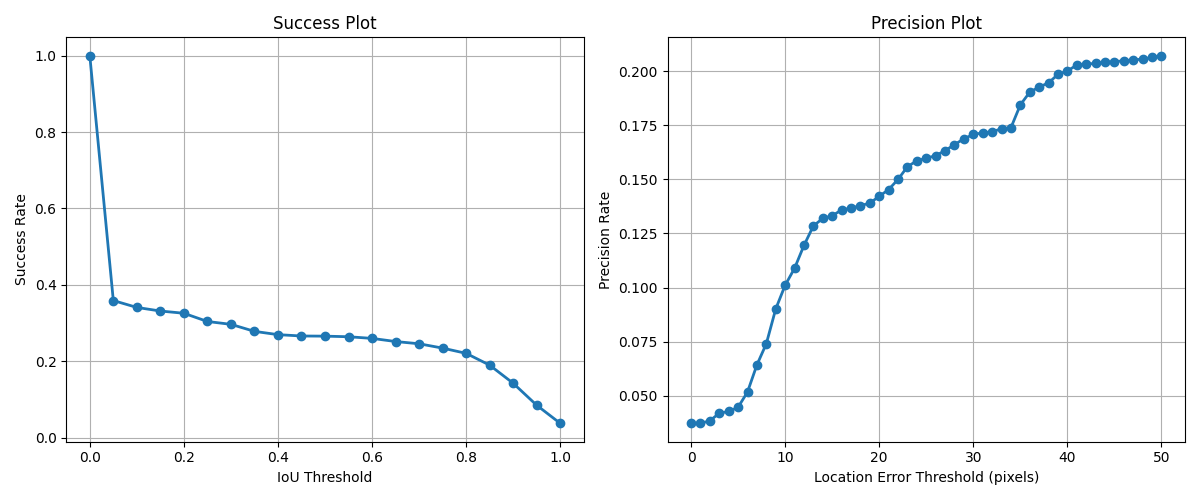
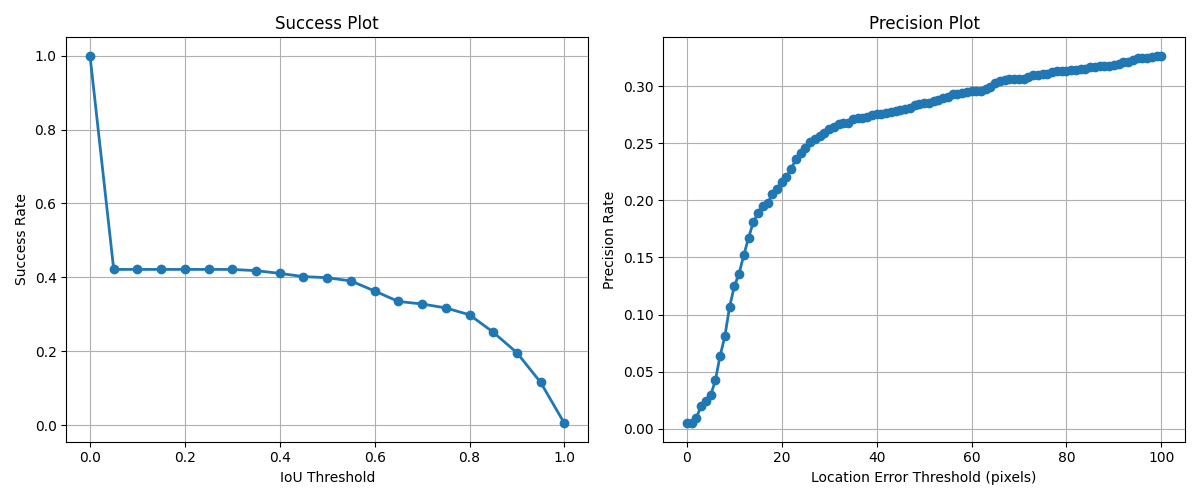
Refactor bounding box extraction to ignore 'person' class and update evaluation metrics for precision tolerance

diff --git a/evaluation/view_gt.py b/evaluation/view_gt.py
@@ -1,0 +1,138 @@
+import os
+import cv2
+import glob
+
+# ==========================================
+# 1. CONFIGURAZIONE PERCORSI
+# ==========================================
+# Cartella dei video raw originali (assicurati dell'estensione, qui cerchiamo .mp4)
+VIDEO_DIR = "/home/ludovico/workspace/AA-STAL/data_pipeline/DATA_ROOT/Videos"
+
+# Cartella con le cartelle dei robot (robot-1, robot-2, ecc.) e i txt
+GT_DIR = "/mnt/c/Users/ludov/Projects/creazione-sdrogo-dataset-AA-STAL/LaSot_robot"
+
+# Cartella di output dove verranno salvati i video di debug
+OUTPUT_DIR = "debug_videos_gt"
+
+# ==========================================
+# 2. CARICAMENTO GROUNDTRUTH
+# ==========================================
+def load_lasot_gt(gt_path, occ_path, oov_path):
+    """Carica e formatta la groundtruth originale di LaSOT (x, y, w, h)."""
+    with open(gt_path, 'r') as f:
+        # LaSOT usa x, y, w, h
+        gt_boxes = [list(map(float, line.strip().split(','))) for line in f]
+    
+    with open(occ_path, 'r') as f:
+        occlusions = [int(x) for x in f.read().replace(',', ' ').split()]
+        
+    with open(oov_path, 'r') as f:
+        out_of_views = [int(x) for x in f.read().replace(',', ' ').split()]
+
+    return gt_boxes, occlusions, out_of_views
+
+# ==========================================
+# 3. PIPELINE DI VISUALIZZAZIONE
+# ==========================================
+def draw_gt_on_videos():
+    os.makedirs(OUTPUT_DIR, exist_ok=True)
+    
+    # Trova tutte le cartelle robot in GT_DIR
+    robots = [d for d in os.listdir(GT_DIR) if os.path.isdir(os.path.join(GT_DIR, d))]
+    
+    if not robots:
+        print(f"[!] Nessuna cartella robot trovata in {GT_DIR}")
+        return
+
+    for robot in robots:
+        print(f"Elaborazione video di debug per: {robot}")
+        
+        # Percorsi file GT
+        gt_path = os.path.join(GT_DIR, robot, "groundtruth.txt")
+        occ_path = os.path.join(GT_DIR, robot, "full_occlusion.txt")
+        oov_path = os.path.join(GT_DIR, robot, "out_of_view.txt")
+        
+        if not os.path.exists(gt_path):
+            print(f"  [-] {robot}: File groundtruth.txt mancante. Salto.")
+            continue
+            
+        gt_boxes, occlusions, out_of_views = load_lasot_gt(gt_path, occ_path, oov_path)
+        
+        # Cerca il video corrispondente (supporta .mp4 o .avi)
+        video_path = os.path.join(VIDEO_DIR, f"{robot}.mp4")
+        if not os.path.exists(video_path):
+            video_path = os.path.join(VIDEO_DIR, f"{robot}.avi")
+            if not os.path.exists(video_path):
+                print(f"  [-] {robot}: Video corrispondente non trovato in {VIDEO_DIR}. Salto.")
+                continue
+                
+        # Apertura video originale
+        cap = cv2.VideoCapture(video_path)
+        fps = cap.get(cv2.CAP_PROP_FPS)
+        w = int(cap.get(cv2.CAP_PROP_FRAME_WIDTH))
+        h = int(cap.get(cv2.CAP_PROP_FRAME_HEIGHT))
+        total_frames_video = int(cap.get(cv2.CAP_PROP_FRAME_COUNT))
+        
+        # Setup VideoWriter per l'output
+        out_path = os.path.join(OUTPUT_DIR, f"{robot}_debug.mp4")
+        fourcc = cv2.VideoWriter_fourcc(*'mp4v')
+        out = cv2.VideoWriter(out_path, fourcc, fps, (w, h))
+        
+        frame_idx = 0
+        total_gt_frames = len(gt_boxes)
+        
+        while True:
+            ret, frame = cap.read()
+            if not ret:
+                break
+                
+            # Disegna solo se abbiamo i dati GT per questo frame
+            if frame_idx < total_gt_frames:
+                box = gt_boxes[frame_idx]
+                occ = occlusions[frame_idx]
+                oov = out_of_views[frame_idx]
+                
+                # Testo HUD (Heads-Up Display) di default
+                status_text = "VISIBLE"
+                color = (0, 255, 0) # Verde (BGR)
+                
+                if oov == 1:
+                    status_text = "OUT OF VIEW"
+                    color = (0, 0, 255) # Rosso
+                elif occ == 1:
+                    status_text = "FULL OCCLUSION"
+                    color = (0, 165, 255) # Arancione
+                
+                # Disegna la bounding box se non è fuori inquadratura o ha larghezza/altezza valide
+                if oov == 0 and len(box) >= 4:
+                    x, y, bw, bh = box
+                    if bw > 0 and bh > 0:
+                        x1, y1 = int(x), int(y)
+                        x2, y2 = int(x + bw), int(y + bh)
+                        
+                        # Disegna il rettangolo
+                        cv2.rectangle(frame, (x1, y1), (x2, y2), color, 3)
+                
+                # Scrivi le informazioni a schermo per il debug
+                cv2.putText(frame, f"Frame: {frame_idx} / GT_Length: {total_gt_frames}", (30, 50), 
+                            cv2.FONT_HERSHEY_SIMPLEX, 1, (255, 255, 255), 3)
+                cv2.putText(frame, f"Frame: {frame_idx} / GT_Length: {total_gt_frames}", (30, 50), 
+                            cv2.FONT_HERSHEY_SIMPLEX, 1, (0, 0, 0), 1)
+                            
+                cv2.putText(frame, f"Status: {status_text}", (30, 90), 
+                            cv2.FONT_HERSHEY_SIMPLEX, 1, color, 3)
+            else:
+                # Se il video è più lungo della groundtruth, avvisiamo visivamente
+                cv2.putText(frame, "WARNING: NO GT DATA FOR THIS FRAME", (30, 50), 
+                            cv2.FONT_HERSHEY_SIMPLEX, 1, (0, 0, 255), 3)
+
+            out.write(frame)
+            frame_idx += 1
+            
+        cap.release()
+        out.release()
+        
+        print(f"  [+] Salvato: {out_path} (Elaborati {frame_idx} frame, Video Raw: {total_frames_video})")
+
+if __name__ == "__main__":
+    draw_gt_on_videos()

diff --git a/evaluation/obj_det_and_track_personal_video.py b/evaluation/obj_det_and_track_personal_video.py
@@ -79,20 +79,28 @@ def load_gt_txt(gt_path):
     return gt_abs
 
 def extract_bboxes_from_json(json_path):
-    """Estrae e de-normalizza tutte le bbox dal JSON frame per frame."""
+    """Estrae e de-normalizza le bbox, ignorando la classe 'person'."""
     with open(json_path, 'r') as f:
         data = json.load(f)
     
     detected_objects = data.get("detected_objects", {})
-    num_frames = 0
+    valid_objects = {}
     
-    for obj_val in detected_objects.values():
+    # Filtro: scarta gli umani
+    for obj_key, obj_val in detected_objects.items():
+        class_name = obj_val.get("class_name", "").lower()
+        if "person" in class_name:
+            continue
+        valid_objects[obj_key] = obj_val
+        
+    num_frames = 0
+    for obj_val in valid_objects.values():
         bboxes = obj_val.get("bbox", [])
         num_frames = max(num_frames, len(bboxes))
         
     frames_bboxes = [[] for _ in range(num_frames)]
     
-    for obj_val in detected_objects.values():
+    for obj_val in valid_objects.values():
         bboxes = obj_val.get("bbox", [])
         for i, bbox in enumerate(bboxes):
             if bbox is not None:
@@ -150,24 +158,24 @@ def evaluate_tracking_oracle(gt_boxes, frames_preds):
     return ious, center_errors
 
 def calculate_metrics(ious, center_errors):
-    """Calcola AUC e Precision."""
+    """Calcola AUC e Precision con tolleranza a 50px."""
     ious_arr = np.array(ious)
     ce_arr = np.array(center_errors)
     
     iou_thresholds = np.arange(0, 1.05, 0.05)
-    cle_thresholds = np.arange(0, 51, 1)
+    cle_thresholds = np.arange(0, 101, 1) # Modificato asse x fino a 100px
     
     success_rates = [np.mean(ious_arr >= t) for t in iou_thresholds]
     precision_rates = [np.mean(ce_arr <= t) for t in cle_thresholds]
     
     auc_success = np.trapezoid(success_rates, dx=0.05)
-    precision_at_20 = precision_rates[20]
+    precision_at_50 = precision_rates[50] # Modificata soglia a 50px
     
     print("-" * 30)
-    print(f"RISULTATI FINALI (Calcolati su {len(ious_arr)} frame con target visibile/valutabile)")
+    print(f"RISULTATI FINALI (Calcolati su {len(ious_arr)} frame validi)")
     print("-" * 30)
     print(f"Success Rate (AUC): {auc_success:.4f}")
-    print(f"Precision Rate (CLE < 20px): {precision_at_20:.4f}")
+    print(f"Precision Rate (CLE < 50px): {precision_at_50:.4f}")
     
     plt.figure(figsize=(12, 5))
     plt.subplot(1, 2, 1)
@@ -187,7 +195,7 @@ def calculate_metrics(ious, center_errors):
     plt.tight_layout()
     plt.savefig("evaluation_global_mot_results.png")
     print("Grafico salvato come 'evaluation_global_mot_results.png'.")
-
+    
 # ==========================================
 # 5. PIPELINE PRINCIPALE
 # ==========================================